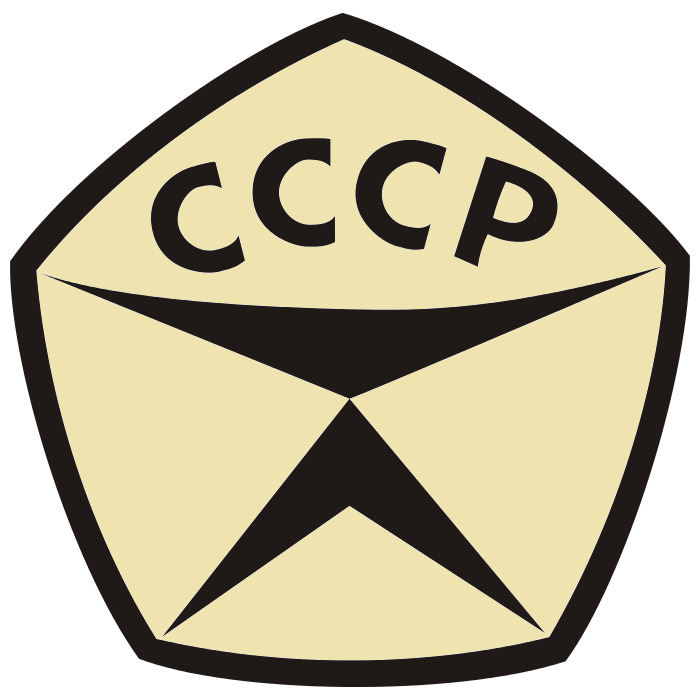
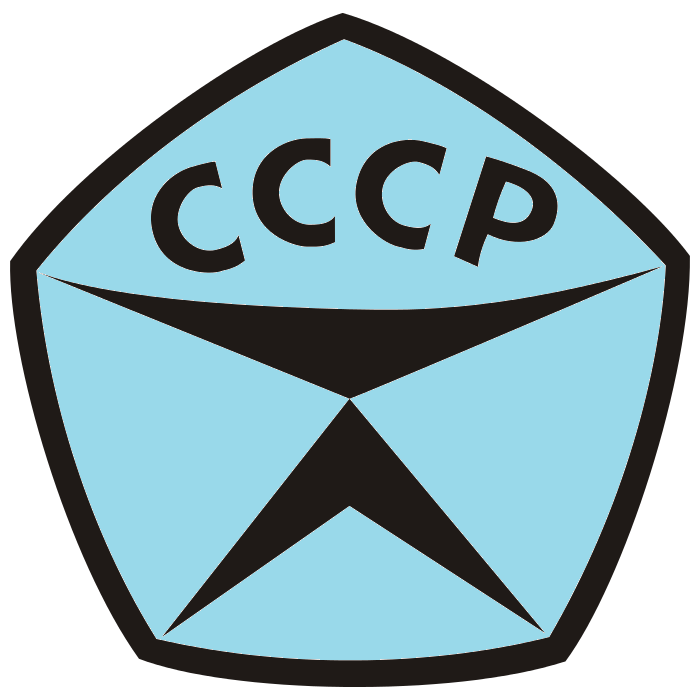
add background

diff --git a/je-ui/src/main/java/com/blogspot/mikelaud/je/OpenTypeView.java b/je-ui/src/main/java/com/blogspot/mikelaud/je/OpenTypeView.java
@@ -1,5 +1,9 @@
 package com.blogspot.mikelaud.je;
 
+import java.nio.file.Path;
+import java.nio.file.Paths;
+
+import com.blogspot.mikelaud.je.common.ImagePane;
 import com.blogspot.mikelaud.je.common.Type;
 import com.blogspot.mikelaud.je.common.TypeListCell;
 
@@ -23,6 +27,8 @@ import javafx.scene.layout.VBox;
 
 public class OpenTypeView {
 
+	private final Path BACKGROUND_PATH;
+	//
 	private final int SPACING;
 	private final int PADDING;
 	//
@@ -34,10 +40,6 @@ public class OpenTypeView {
 	private final String PACKAGE_ICON_FILENAME;
 	private final String DEFAULT_PACKAGE;
 	//
-	private final Label COUNT_FOUND_LABEL;
-	private final Label COUNT_LABEL;
-	private final Label COUNT_ALL_LABEL;
-	//
 	private ObservableList<Type> mObservableData;
 	private FilteredList<Type> mFilteredData;
 	private SortedList<Type> mSortedData;
@@ -46,9 +48,16 @@ public class OpenTypeView {
 	private TextField mSearchField;
 
 	private Node createMatching() {
+		Label countFoundLabel = new Label();
+		Label countLabel = new Label(" of ");
+		Label countAllLabel = new Label();
+		//
+		countFoundLabel.textProperty().bind(Bindings.size(mFilteredData).asString());
+		countAllLabel.textProperty().bind(Bindings.size(mObservableData).asString());
+		//
 		BorderPane pane = new BorderPane();
 		pane.setLeft(new Label(MATCHING_LABEL_STRING));
-		pane.setRight(new HBox(COUNT_FOUND_LABEL, COUNT_LABEL, COUNT_ALL_LABEL));
+		pane.setRight(new HBox(countFoundLabel, countLabel, countAllLabel));
 		return pane;
 	}
 	
@@ -80,7 +89,12 @@ public class OpenTypeView {
 		listView.setEditable(false);
 		listView.setItems(mSortedData);
 		listView.setCellFactory((tableColumn) -> new TypeListCell(mSearchField));
-		return listView;
+		listView.visibleProperty().bind(Bindings.isNotEmpty(mSortedData));
+		//
+		ImagePane imagePane = new ImagePane();
+		imagePane.setImage(new Image(BACKGROUND_PATH.toString()));
+		imagePane.getChildren().add(listView);
+		return imagePane; 
 	}
 
 	private Node createBottom() {
@@ -108,6 +122,8 @@ public class OpenTypeView {
 	}
 	
 	public OpenTypeView() {
+		BACKGROUND_PATH = Paths.get("background.png");
+		//
 		SPACING = 5;
 		PADDING = 10;
 		//
@@ -119,19 +135,11 @@ public class OpenTypeView {
 		PACKAGE_ICON_FILENAME = "library.png";
 		DEFAULT_PACKAGE = MODEL.getJarName();
 		//
-		COUNT_FOUND_LABEL = new Label();
-		COUNT_LABEL = new Label(" of ");
-		COUNT_ALL_LABEL = new Label();
-		//
 		mObservableData = FXCollections.observableArrayList(MODEL.get());
 		mFilteredData = new FilteredList<>(mObservableData, p -> true);
 		mSortedData = new SortedList<>(mFilteredData, (a, b) -> a.getName().compareTo(b.getName()));
 		//
 		mPane = createPane();
-		//
-		COUNT_FOUND_LABEL.textProperty().bind(Bindings.size(mFilteredData).asString());
-		COUNT_ALL_LABEL.textProperty().bind(Bindings.size(mObservableData).asString());
-		
 	}
 	
 }

diff --git a/je-ui/src/main/java/com/blogspot/mikelaud/je/common/ImagePane.java b/je-ui/src/main/java/com/blogspot/mikelaud/je/common/ImagePane.java
@@ -1,0 +1,83 @@
+package com.blogspot.mikelaud.je.common;
+
+import javafx.beans.value.ChangeListener;
+import javafx.geometry.Bounds;
+import javafx.geometry.Rectangle2D;
+import javafx.scene.image.Image;
+import javafx.scene.image.ImageView;
+import javafx.scene.layout.Pane;
+import javafx.scene.layout.StackPane;
+
+public class ImagePane extends StackPane {
+
+	private final ImageView IMAGE_VIEW;
+	private final Pane IMAGE_PANE;
+	
+	private ChangeListener<Bounds> createBoundsListener() {
+		return (observable, oldValue, newValue) -> {
+			Image image = IMAGE_VIEW.getImage();
+			if (null != image) {
+				double imageWidth = image.getWidth();
+				double imageHeight = image.getHeight();
+				//
+				double windowWidth = newValue.getWidth();
+				double windowHeight = newValue.getHeight();
+				//
+				if (imageHeight > 0 && windowHeight > 0) {
+					//
+					double imageRation = imageWidth / imageHeight;
+					double windowRation = windowWidth / windowHeight;
+					//
+					double viewWidth;
+					double viewHeigth;
+					//
+					double viewX;
+					double viewY;
+					//
+					if (windowRation > imageRation) {
+						viewWidth = imageWidth;
+						viewHeigth = imageWidth / windowRation;
+						//
+						double extraHeight = imageHeight - viewHeigth;
+						//
+						viewX = 0;
+						viewY = extraHeight / 2;
+					}
+					else {
+						viewWidth = imageHeight * windowRation;
+						viewHeigth = imageHeight;
+						//
+						double extraWidth = imageWidth - viewWidth;
+						//
+						viewX = extraWidth / 2;
+						viewY = 0;
+					}
+					//
+					Rectangle2D viewport = new Rectangle2D(viewX, viewY, viewWidth, viewHeigth);
+					IMAGE_VIEW.setViewport(viewport);
+				}
+			}
+		};
+	}
+
+	public Image getImage() { return IMAGE_VIEW.getImage(); }
+	public void setImage(Image aImage) { IMAGE_VIEW.setImage(aImage); }
+	
+	public ImagePane() {
+		IMAGE_VIEW = new ImageView();
+		IMAGE_VIEW.setPreserveRatio(true);
+		IMAGE_VIEW.setSmooth(true);
+		//
+		IMAGE_PANE = new Pane();
+		IMAGE_PANE.getChildren().addAll(IMAGE_VIEW);
+		IMAGE_PANE.setMinSize(0, 0);
+		IMAGE_PANE.layoutBoundsProperty().addListener(createBoundsListener());
+		//
+		getChildren().setAll(IMAGE_PANE);
+		setMinSize(0, 0);
+		//
+		IMAGE_VIEW.fitWidthProperty().bind(IMAGE_PANE.widthProperty());
+		IMAGE_VIEW.fitHeightProperty().bind(IMAGE_PANE.heightProperty());
+	}
+	
+}
